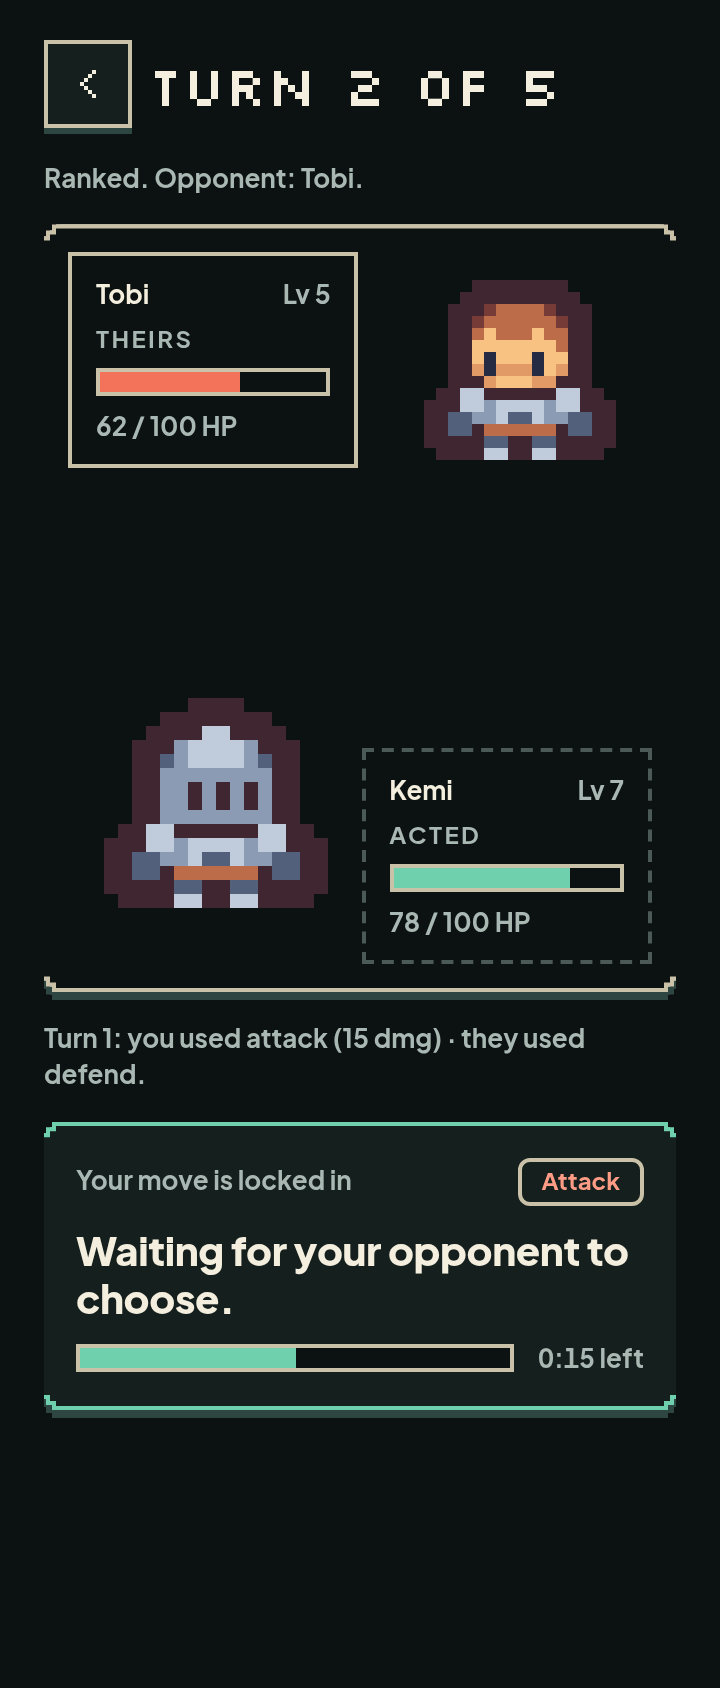
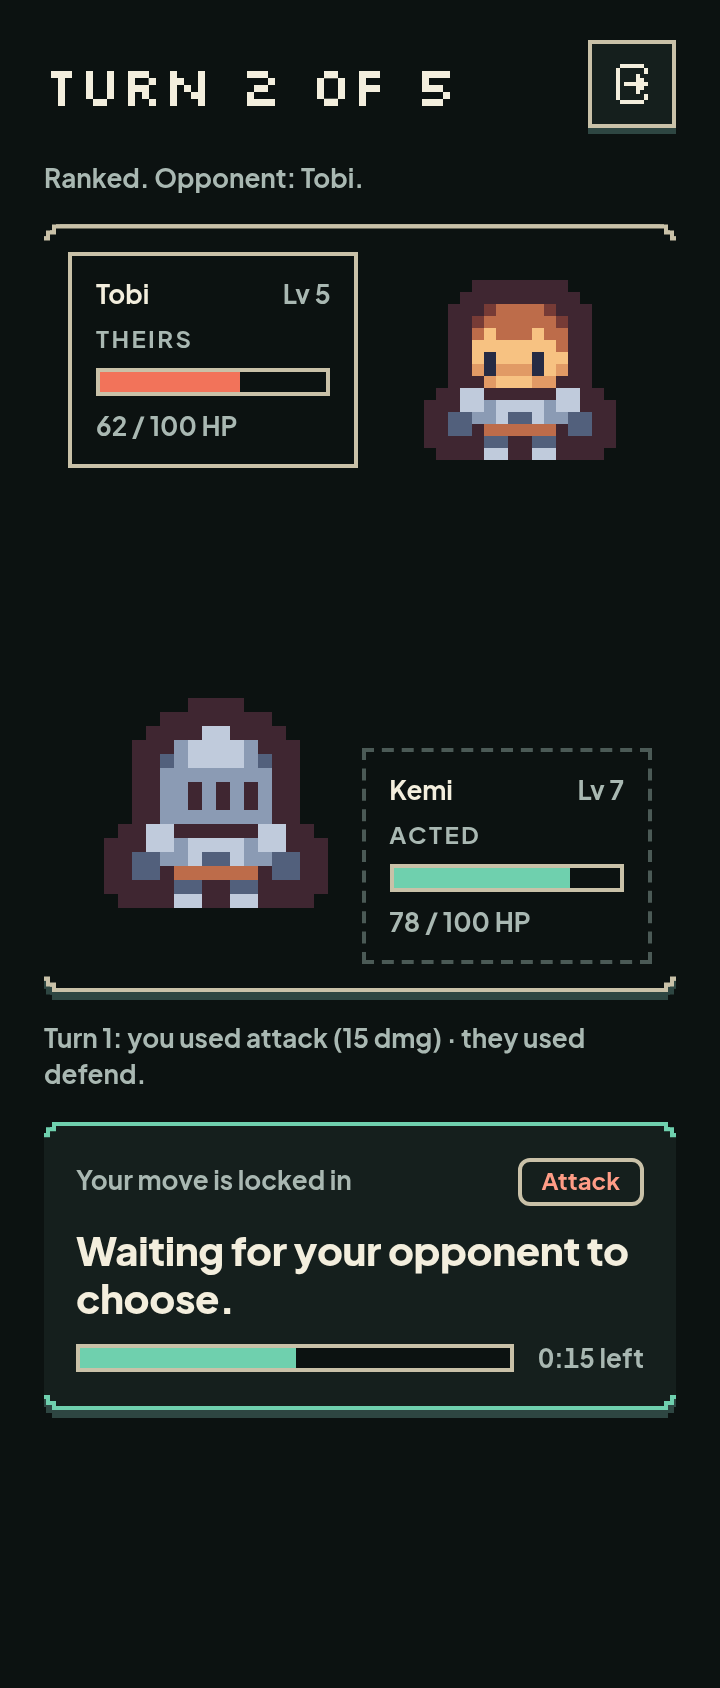
fix: use the leave action in the battle header and refresh battle renders

diff --git a/src/app/battle/[id]/page.tsx b/src/app/battle/[id]/page.tsx
@@ -299,8 +299,11 @@ export default function BattleScreen() {
     <ScreenShell
       variant="pushed"
       title={`Turn ${battle.currentTurn} of ${battle.maxTurns}`}
-      backHref="/battle"
-      backLabel="Leave battle"
+      actions={
+        <ButtonLink href="/battle" variant="icon" aria-label="Leave battle">
+          <Glyph name="leave" size={24} />
+        </ButtonLink>
+      }
     >
       <span className="sv-label text-fg-muted">
         {modeLabel}. Opponent: {battle.opponentName}.

diff --git a/docs/superpowers/specs/2026-11-09-battle-ui-design.md b/docs/superpowers/specs/2026-11-09-battle-ui-design.md
@@ -258,8 +258,8 @@ The joiner's pending state stays on `/battle/[id]`: `{name} challenges you`,
 
 ### 4.7 Battle arena (`/battle/[id]`)
 
-`ScreenShell variant="pushed" title={`Turn {n} of 5`} backHref="/battle"
-backLabel="Leave battle"`.
+`ScreenShell variant="pushed" title={`Turn {n} of 5`}`, with a 44px leave
+icon action (`Glyph name="leave"`) linked to `/battle`.
 
 Body:
 

diff --git a/docs/superpowers/plans/2026-11-09-battle-ui.md b/docs/superpowers/plans/2026-11-09-battle-ui.md
@@ -754,7 +754,7 @@ Attack/Defend/Use item/Special.
 
 - [ ] **Step 4: Rebuild the battle screen**
 
-- Header `Turn {n} of 5`, `backLabel="Leave battle"`.
+- Header `Turn {n} of 5`, with a 44px `leave` icon action linked to `/battle`.
 - Subline with mode and opponent.
 - Arena with viewer/opponent art:
   - opponent: `CharacterArt` from `opponentBracket`, or `RivalArt` when
